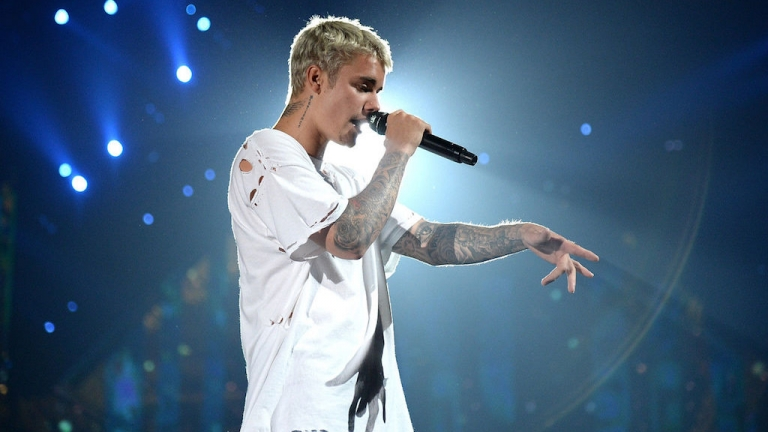
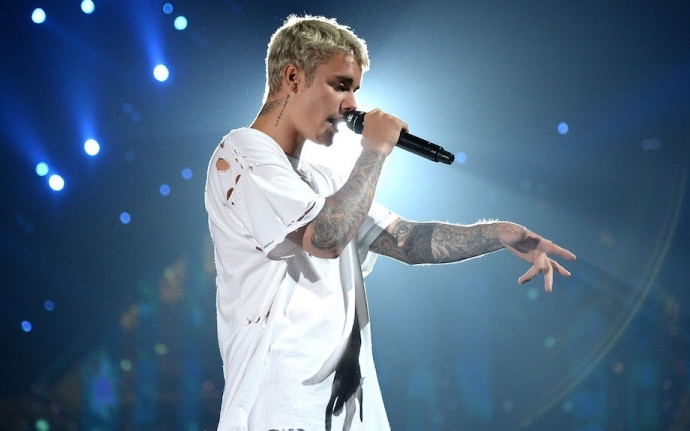
Estilo detail album y artist

diff --git a/detailalbum.html b/detailalbum.html
@@ -4,9 +4,52 @@
     <meta charset="UTF-8">
     <meta name="viewport" content="width=device-width, initial-scale=1.0">
     <link rel="stylesheet" href="css/main.css">
-    <title>Document</title>
+    <link rel="stylesheet" href="css/style-detail.css">
+    <script src="https://kit.fontawesome.com/a0c0bb4f74.js" crossorigin="anonymous"></script>
+    <link href="https://fonts.googleapis.com/css2?family=Open+Sans:wght@300;700;800&display=swap" rel="stylesheet">
+    <link href="https://fonts.googleapis.com/css2?family=Montserrat:wght@300;700;900&display=swap" rel="stylesheet">
+    <link href="https://fonts.googleapis.com/css2?family=Oswald:wght@200;400;500;700&display=swap" rel="stylesheet">
+    <script src="https://kit.fontawesome.com/a0c0bb4f74.js" crossorigin="anonymous"></script>
+    <link href="https://fonts.googleapis.com/css?family=Kaushan+Script&display=swap" rel="stylesheet">
+    <link href="https://fonts.googleapis.com/css?family=Anton|Fjalla+One&display=swap" rel="stylesheet">
+    <title>Album</title>
 </head>
 <body>
-    
+    <div class="container">
+        <header> <ul>
+            <li><img class="logo-img" src="img/logosketch.jpg" alt="logo"></li>
+            <li><a href="index.html">Home</a></li>
+            <li><a href="genres.html">Genres</a></li>
+            <li><a href="playlist.html">Playlists</a></li>
+        </ul></header>
+        <div class="title">
+            <p class="titulo">Album</p>
+            
+        </div>
+        <div class="detail">
+            <div class="foto1"><img class="fotodetail" src="img/adelealbum.jpg" alt="Adele 21"></div>
+            <div class="info">
+                <h3 class="nombre">21</h3>
+                <ul class="info-list">
+                    <li><span class="datos">Artist: </span><span>Adele</span></li>
+                    <li><span class="datos">Genre: </span><span>Pop</span><br></li>
+                    <li><span class="datos">Date: </span><span>January 24, 2011</span></li>
+                </ul>
+            </div>
+        </div>
+    </div>
+        <footer>
+            <img class="deezer" src="img/deezer logo.png" alt="logo deezer">
+                <ul id="icons">
+                    <li><i class="fab fa-instagram"></i></li>
+                    <li><i class="fab fa-facebook-f"></i></li>
+                    <li><i class="fab fa-twitter"></i></li>
+                </ul>
+            <ul class="nombres">
+                    <li>Felicitas Rattagan</li>
+                    <li>Maria Peña</li>
+            </ul>
+        </footer>
+    </div>
 </body>
 </html>

diff --git a/detailartist.html b/detailartist.html
@@ -23,24 +23,25 @@
             <li><a href="genres.html">Genres</a></li>
             <li><a href="playlist.html">Playlists</a></li>
         </ul></header>
-    <div class="title">
-    <p class="titulo">Artists</p>
-    <p class="nombre">Adele</p>
-    </div>
-    <div class="detail">
-    <img class="fotodetail" src="img/adele.png" alt="Adele">
-    <div class="info">
-       <p> Followers: </p> 
-       <p>Top songs
-           <ol>
-               <li>Someone like you</li>
-               <li>Make you feel my love</li>
-               <li>Rolling in the deep</li>
-               <li>When we were young</li>
-               <li>Skyfall</li>
-           </ol>
-       </p>
-    </div>
+        <div class="title">
+            <p class="titulo">Artists</p>
+        </div>
+        <div class="detail">
+            <div class="foto1"><img class="fotodetail" src="img/adele1.png" alt="Adele"></div>
+            <div class="info">
+                <h3 class="nombre">Adele</h3>
+                <ul class="info-list">
+                    <li><span class="datos">Followers: </span></li>
+                    <li><span class="datos">Top Songs:</span></li>
+                        <ol>
+                            <li>Someone like you</li>
+                            <li>Make you feel my love</li>
+                            <li>Rolling in the deep</li>
+                            <li>When we were young</li>
+                            <li>Skyfall</li>
+                        </ol>
+                </ul>   
+        </div>
     </div>
     <footer>
         <img class="deezer" src="img/deezer logo.png" alt="logo deezer">

diff --git a/css/style-detail.css b/css/style-detail.css
@@ -8,22 +8,72 @@ body{
     justify-content: center;
     padding: 0px;
 }
-.fotodetail{
-    width: 700px;
+
+.foto1{
+    width:500px;
+    height:500px;
 }
-.detail{
+
+img.fotodetail{
+    width:100%;
+}
+
+div.detail{
     display: flex;
-    flex: row;
-    flex-wrap: wrap;
+    flex-wrap: nowrap;
+    justify-content: space-between;
+    border:solid #A4B3B6;
+    width:1000px;
+    height:500px;
+    margin-bottom:80px;
+
 }
 .title{
     padding-top: 110px;
-    width: 100%;
+    width: 1000px;
    display: flex;
-   justify-content: center;
    font-family: 'Anton', sans-serif;
+   text-align:right;
 }
+
 .title p{
 margin: 10px;
 font-size: 50px;
 }
+
+.fotodetailalbum{
+    width:100%;
+}
+
+/*Datos album*/
+ 
+.info{
+    padding-right:150px;
+}
+
+.nombre{
+    font-size:100px;
+    margin:20px 0px 0px 0px;
+    font-weight: bold;
+}
+
+span.datos{
+    font-size:40px;
+    color:#D83F87;
+}
+
+
+
+ul{
+    list-style:none;
+    padding-left:0px;
+}
+
+.info-list li{
+    margin:20px 0px 30px 0px;
+    color:white;
+    font-size:30px;
+}
+
+
+

diff --git a/css/style-index.css b/css/style-index.css
@@ -47,7 +47,7 @@ div{
 
 .minibanner{
     display:grid;
-    grid-template-columns: 300px 1fr;
+    grid-template-columns: 319px 1fr;
     border:solid white;
     border-width:3px;
     width:100%;
@@ -57,23 +57,42 @@ div{
 }
 
 .minibanner img{
-    width:100%;
+    height: 100%;
+    object-fit: fill;
+ 
 }
 
 .banner-title{
     display:grid;
-    grid-template-rows: 0.5fr 1fr;
+    grid-template-rows: 220px 110px 220px;
+    height:550px;
+    background-color: rgb(129, 90, 180);
 }
 
 .title1{
+    display:flex;
+    text-align: center;
+    justify-content: center;
     font-size:150px;
     font-family: 'Anton', sans-serif;
     text-transform:uppercase;
 }
 
 .title2{
+    display:flex;
+    justify-content: center;
     font-family: 'Kaushan Script', cursive;
     font-size:110px;
+}
+
+.title3{
+    display:flex;
+    text-align: center;
+    justify-content: center;
+    font-size:150px;
+    font-family: 'Anton', sans-serif;
+    text-transform:uppercase;
+
 }
 
 /* top 50 lists */

diff --git a/index.html b/index.html
@@ -29,10 +29,10 @@
     <div class="buscador"><i class="fas fa-search"></i>BARRA BUSCADOR</div>
     <div class="minibanner">
         <div class="banner-title">
-            <div class="title1">your</div><div class="title2">music</div>
+            <div class="title1">your</div><div class="title2">music</div><div class="title3">here</div>
         </div>
         <div class="banner-img">
-         <img src="img/bieber.jpg" alt="justin bieber">
+         <img src="img/bieber.jpg" alt="justin bieber" >
         </div>
     </div>
 </div>
